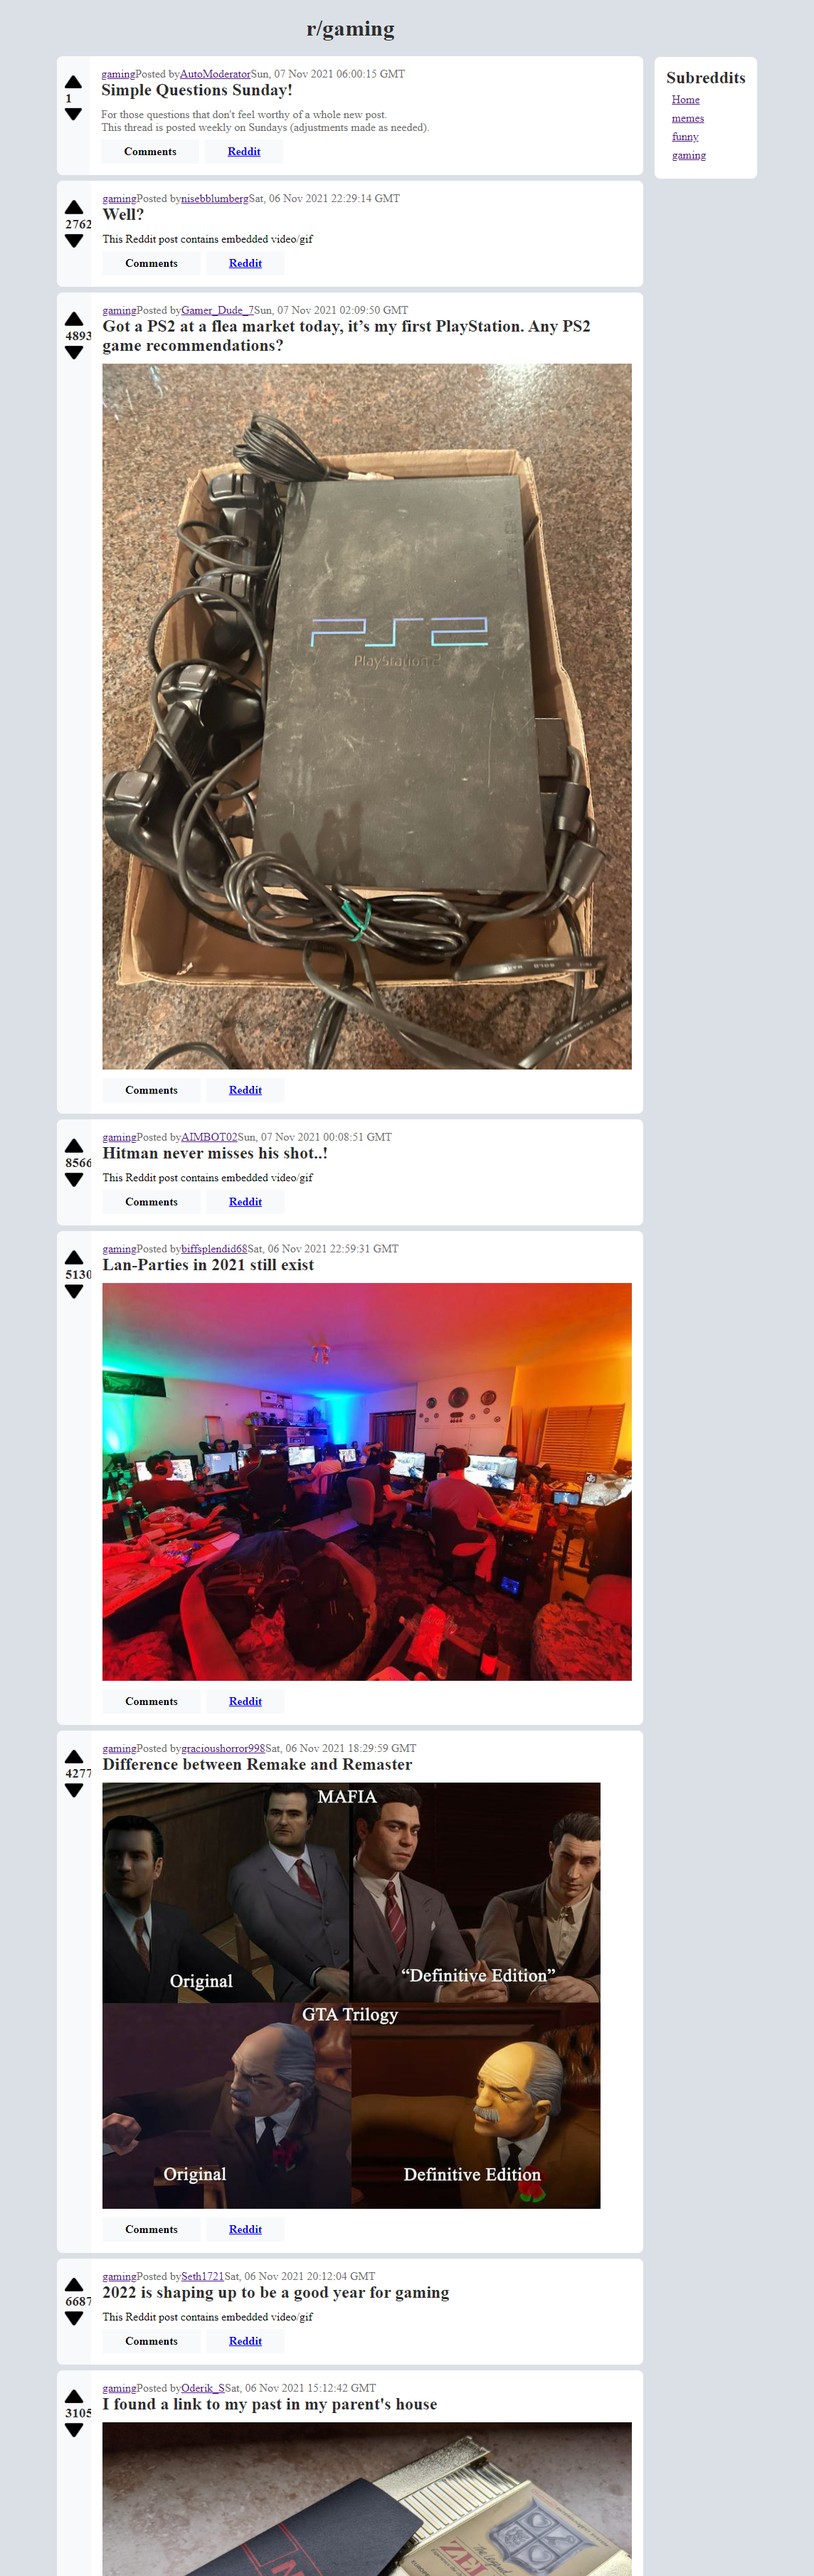
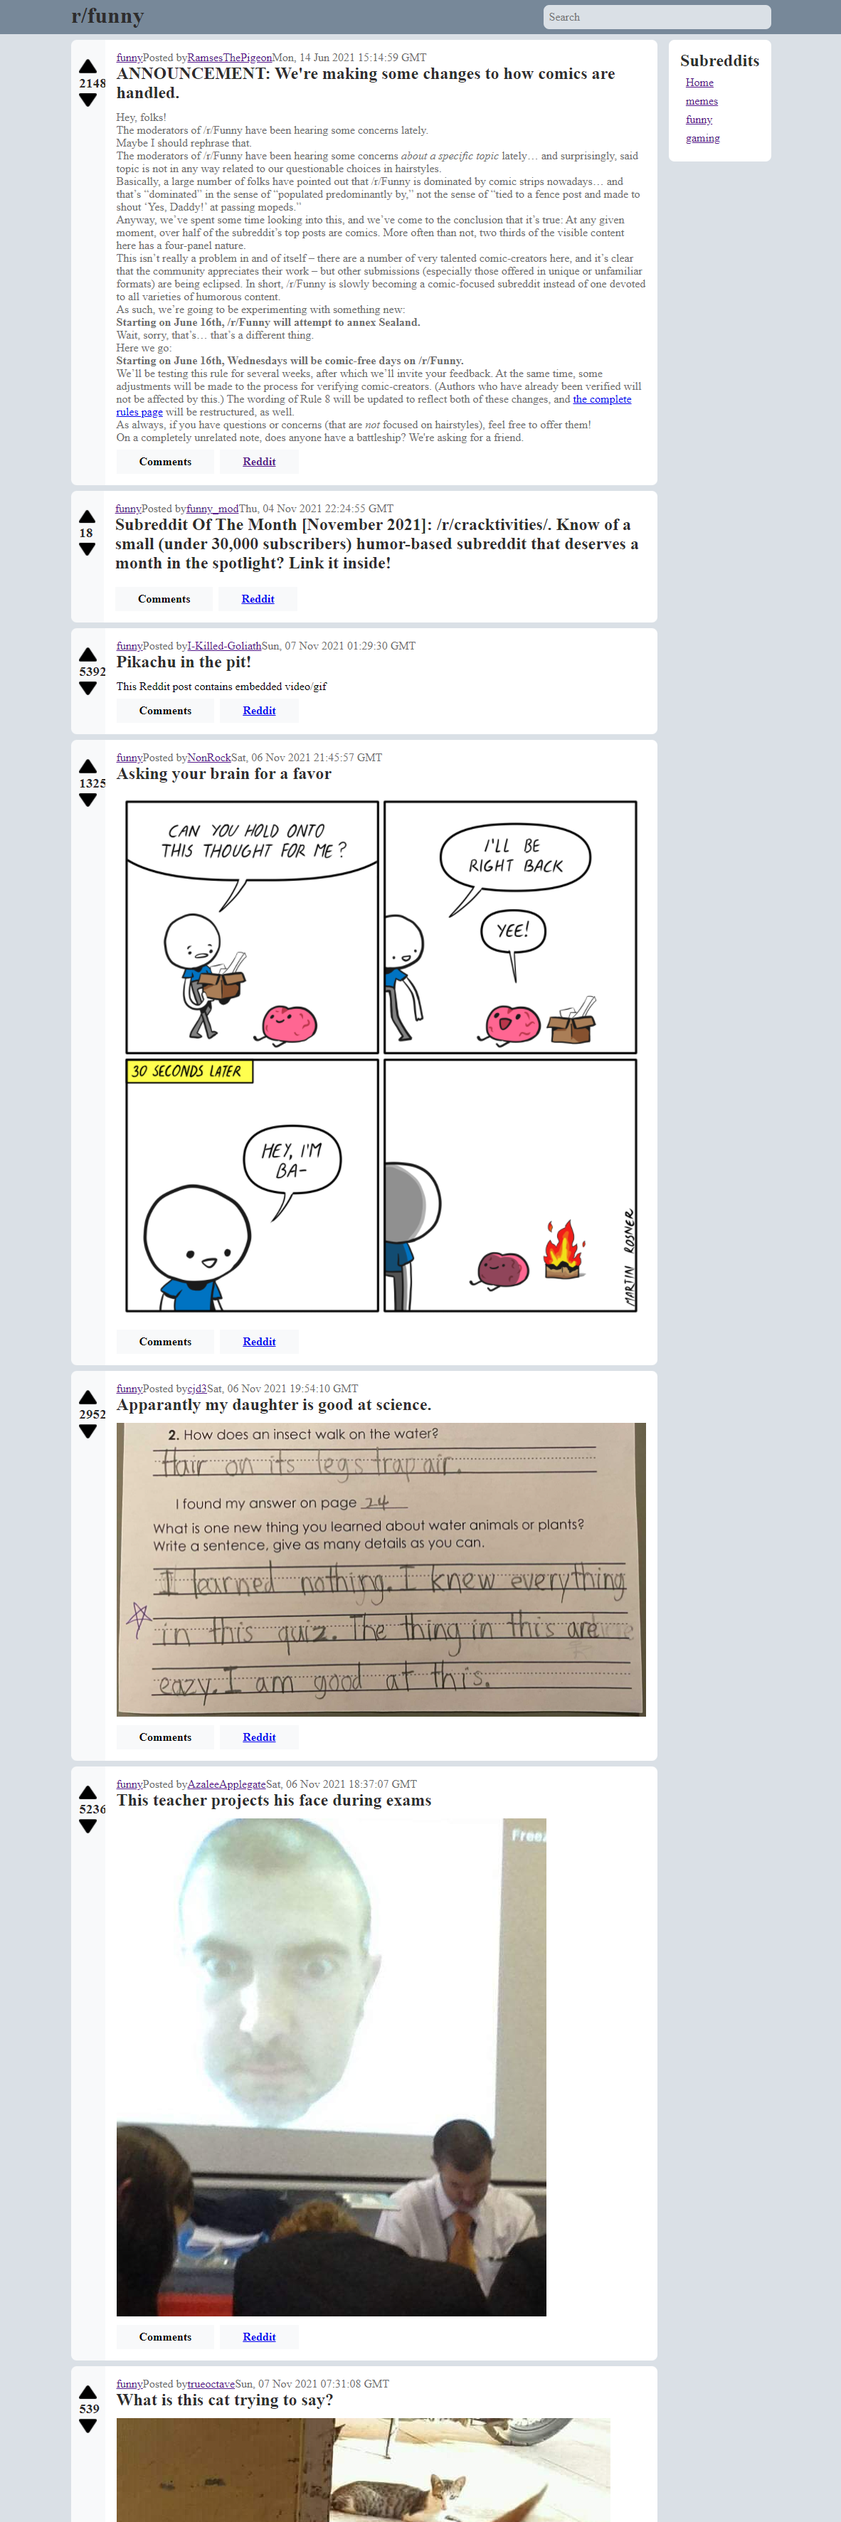
Adding - Search Field

diff --git a/src/app/App.css b/src/app/App.css
@@ -34,6 +34,51 @@ img {
 }
 
 /*******************************************************************************************/
+/* NAV */
+
+nav {
+  position: fixed;
+  top: 0;
+  left: 0;
+  width: 100%;
+  background: lightslategray;
+}
+
+.nav-container {
+  display: flex;
+  justify-content: space-between;
+  align-items: center;
+  /* border: solid 1px red; */
+  height: 3em;
+  width: 100%;
+  padding: .5em;
+}
+
+.searchField {
+  background: #dae0e6;
+  /* border: solid 1px green; */
+  border: none;
+  border-radius: .5em;
+  padding: .5em;
+  /* color: black; */
+  width: 50%;
+  max-width: 20em;
+}
+
+.subreddit-title {
+  font-size: 1.5em;
+  margin: 0;
+}
+
+.app-aside {
+  padding-top: 3em;
+}
+
+.app-articles {
+  /* padding-top: 3em; */
+}
+
+/*******************************************************************************************/
 /* RATINGS */
 
 .ratings-container {
@@ -143,22 +188,40 @@ article {
 /* MEDIA QUESRIES */
 
 @media only screen and (min-width:650px) {
-  .app-articles, .app-aside {
-    /* border: solid 1px red; */
-
-  }
-
   .App {
     display: flex;
+    flex-direction: row-reverse;
   }
 
-  .app-aside {
-    padding-top: 4.5em;
-  }  
+  .app-articles {
+    /* border: solid 1px red; */
+    padding-top: 3em;
+  }
+
+  .subreddit-title {
+    font-size: 2em;
+    padding-bottom: .2em;
+  }
+
+  .searchField {
+    width: 20em;
+  }
 }
 
 @media only screen and (min-width: 1000px) {
   .App {
     max-width: 1000px;
+  }
+
+  nav {
+    width: 100%;
+    /* border: solid 1px red; */
+    /* justify-content: space-evenly; */
+  }
+  
+  .nav-container {
+    /* border: soid 1px blue; */
+    max-width: 1000px;
+    margin: 0 auto
   }
 }

diff --git a/src/features/articlePreviews/ArticlePreviews.js b/src/features/articlePreviews/ArticlePreviews.js
@@ -2,7 +2,8 @@ import React, { useEffect } from "react";
 import { useDispatch, useSelector } from "react-redux";
 import {
   // selectAllPreviews,
-  selectFromReddit,
+  // selectFromReddit,
+  selectSearchTerm,
   // loadAllPreviews,
   // loadFromReddit,
   isLoading,
@@ -11,15 +12,14 @@ import {
   loadFromFunny,
   // loadFromGaming
 } from "./articlePreviewsSlice";
-import FullArticle from '../../components/FullArticle';
+// import FullArticle from '../../components/FullArticle';
+import SearchPreview from '../../components/Search';
 
 export default function ArticlePreviews() {
   const dispatch = useDispatch();
-  // const articlePreviews = useSelector(selectAllPreviews);
-  const articlesFromReddit = useSelector(selectFromReddit);
+  const searchTerm = useSelector(selectSearchTerm);
   const isLoadingPreviews = useSelector(isLoading);
-  let subredditName = 'Reddit';
-  
+
   useEffect(() => {
     // dispatch(loadAllPreviews());
     // dispatch(loadFromMemes())
@@ -27,11 +27,6 @@ export default function ArticlePreviews() {
     // dispatch(loadFromGaming())
     // dispatch(loadFromHome())
   }, [dispatch]);
-  // console.log(articlesFromReddit);
-
-  if (articlesFromReddit.length > 0) {
-    subredditName = articlesFromReddit[0].subreddit;
-  }
 
   if (isLoadingPreviews) {
     return <div>Loading state...</div>
@@ -39,10 +34,7 @@ export default function ArticlePreviews() {
 
   return (
     <>
-      <h1>r/{subredditName}</h1>
-      {articlesFromReddit.map((article) => {
-        return <FullArticle article={article} key={article.id} />
-      })}
+      <SearchPreview searchTerm={searchTerm} />
     </>
   );
 };

diff --git a/src/components/Search.js b/src/components/Search.js
@@ -1,0 +1,46 @@
+import React, { useState } from 'react';
+import { selectFromReddit } from '../features/articlePreviews/articlePreviewsSlice';
+import { useSelector } from "react-redux";
+import FullArticle from './FullArticle';
+
+export default function SearchPreview () {
+  const articlesFromReddit = useSelector(selectFromReddit);
+  const [searchTerm, setSearchTerm] = useState("");
+  let subredditTitle = 'Reddit';
+  if (articlesFromReddit.length > 0) {
+    subredditTitle = articlesFromReddit[0].subreddit_name_prefixed;
+  }
+  const filteredArticles = articlesFromReddit.filter(article => {
+    return (
+      article.title.toLowerCase().includes(searchTerm.toLowerCase())
+      ||
+      article.selftext.toLowerCase().includes(searchTerm.toLowerCase())
+    );
+  });
+  console.log(searchTerm);
+  const handleChange = (e) => {
+
+    setSearchTerm(e.target.value);
+  };
+  
+  return (
+    <>
+      <nav>
+        <div className="nav-container">
+          <h1 className="subreddit-title">{subredditTitle}</h1>
+          <input
+            className="searchField"
+            type="search"
+            name="search"
+            area-label="Search through site content"
+            placeholder="Search"
+            onChange={handleChange}
+          />
+        </div>
+      </nav>
+      {filteredArticles.map((article) => {
+        return <FullArticle article={article} key={article.id} />
+      })}
+    </>
+  );
+};

diff --git a/src/features/articlePreviews/articlePreviewsSlice.js b/src/features/articlePreviews/articlePreviewsSlice.js
@@ -126,5 +126,6 @@ export const articlePreviewsSlice = createSlice({
 
 export const selectAllPreviews = (state) => state.articlePreviews.articles;
 export const selectFromReddit = (state) => state.articlePreviews.articlesFromReddit;
+export const selectSearchTerm = (state) => state.articlePreviews.searchTerm;
 export const isLoading = (state) => state.isLoadingPreviews;
 export default articlePreviewsSlice.reducer;

diff --git a/src/app/App.js b/src/app/App.js
@@ -6,11 +6,11 @@ import AsidePreview from '../features/asidePreview/AsidePreview';
 function App() {
   return (
     <div className="App">
-      <div className="app-articles">
-        <ArticlePreviews />
-      </div>
       <div className="app-aside">
         <AsidePreview />
+      </div>
+      <div className="app-articles">
+        <ArticlePreviews />
       </div>
     </div>
   );

diff --git a/README.md b/README.md
@@ -35,7 +35,7 @@ The Reddit API will return some user content (comments) in Markdown. You should 
 * ~~Users can use the application on any modern browser~~
 * Users can access your application at a URL
 * ~~Users see an initial view of the data when first visiting the app~~
-* Users can search the data using terms
+* ~~Users can search the data using terms~~
 * ~~Users can filter the data based on categories that are predefined~~
 * Users are shown a detail view (modal or new page/route) when they select an item
 * Users are delighted with a cohesive design system
